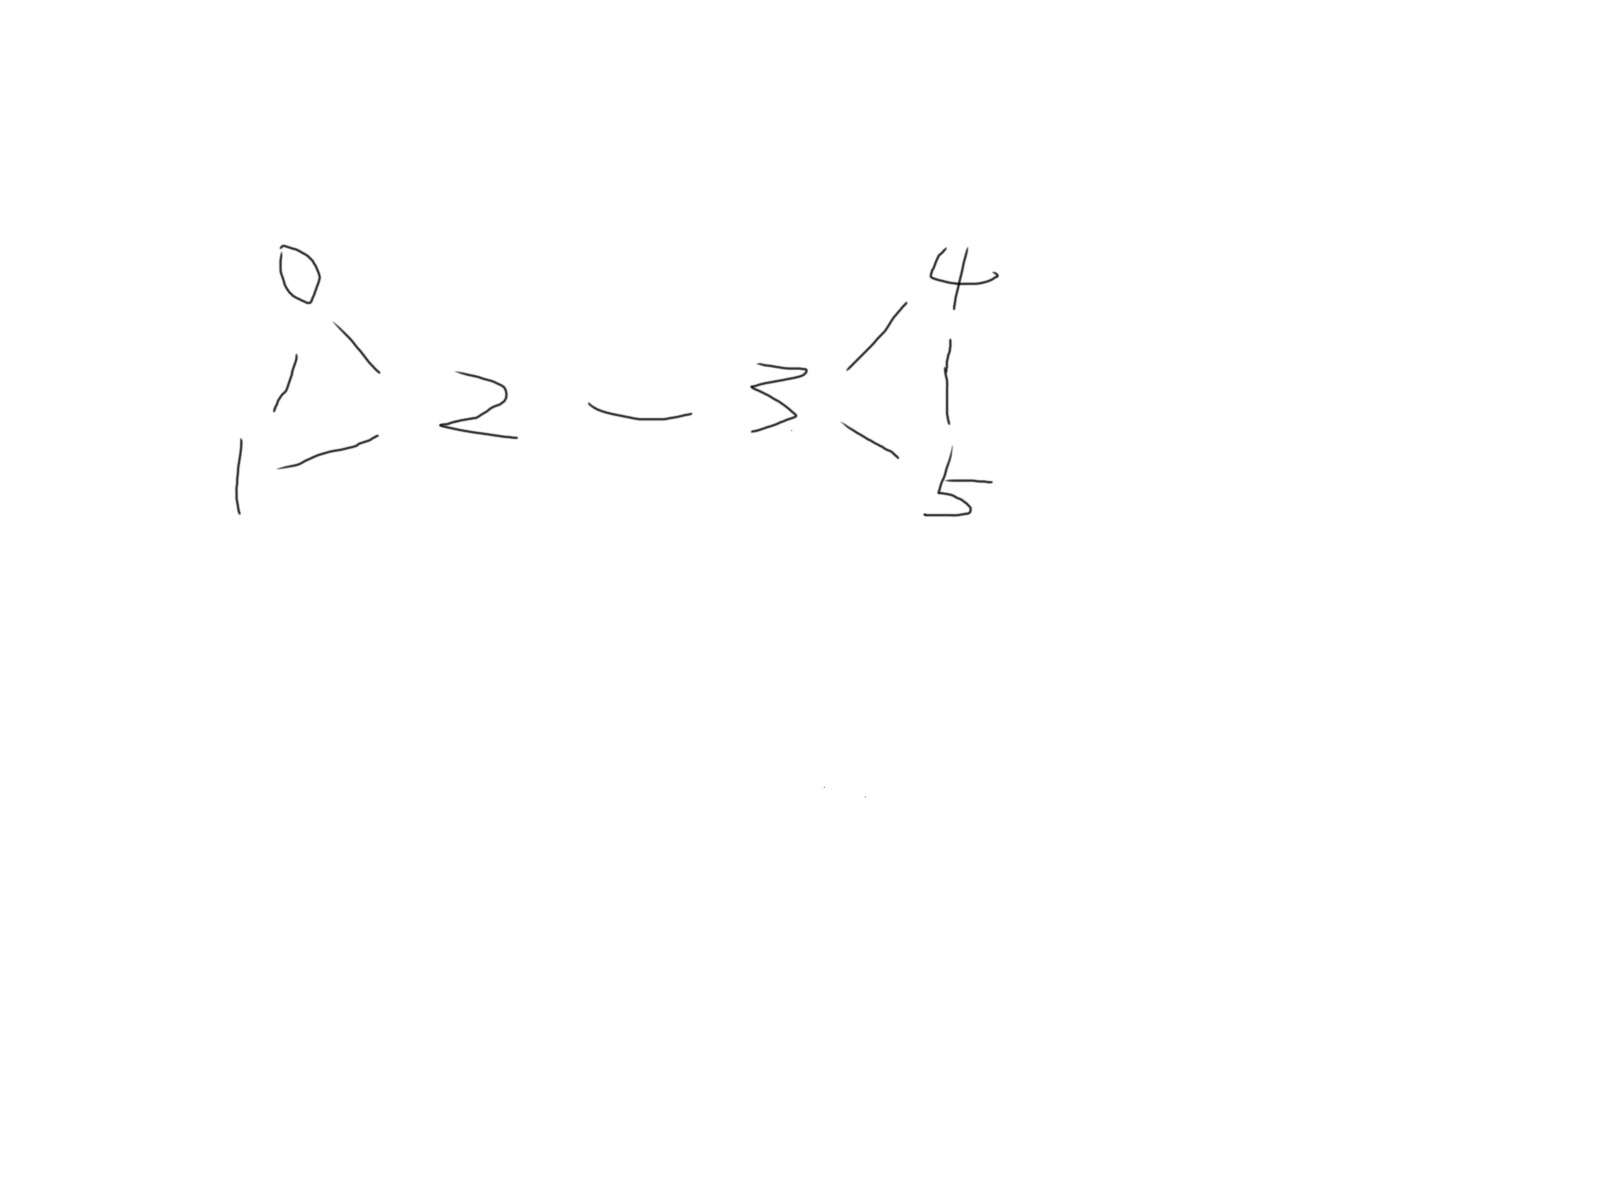
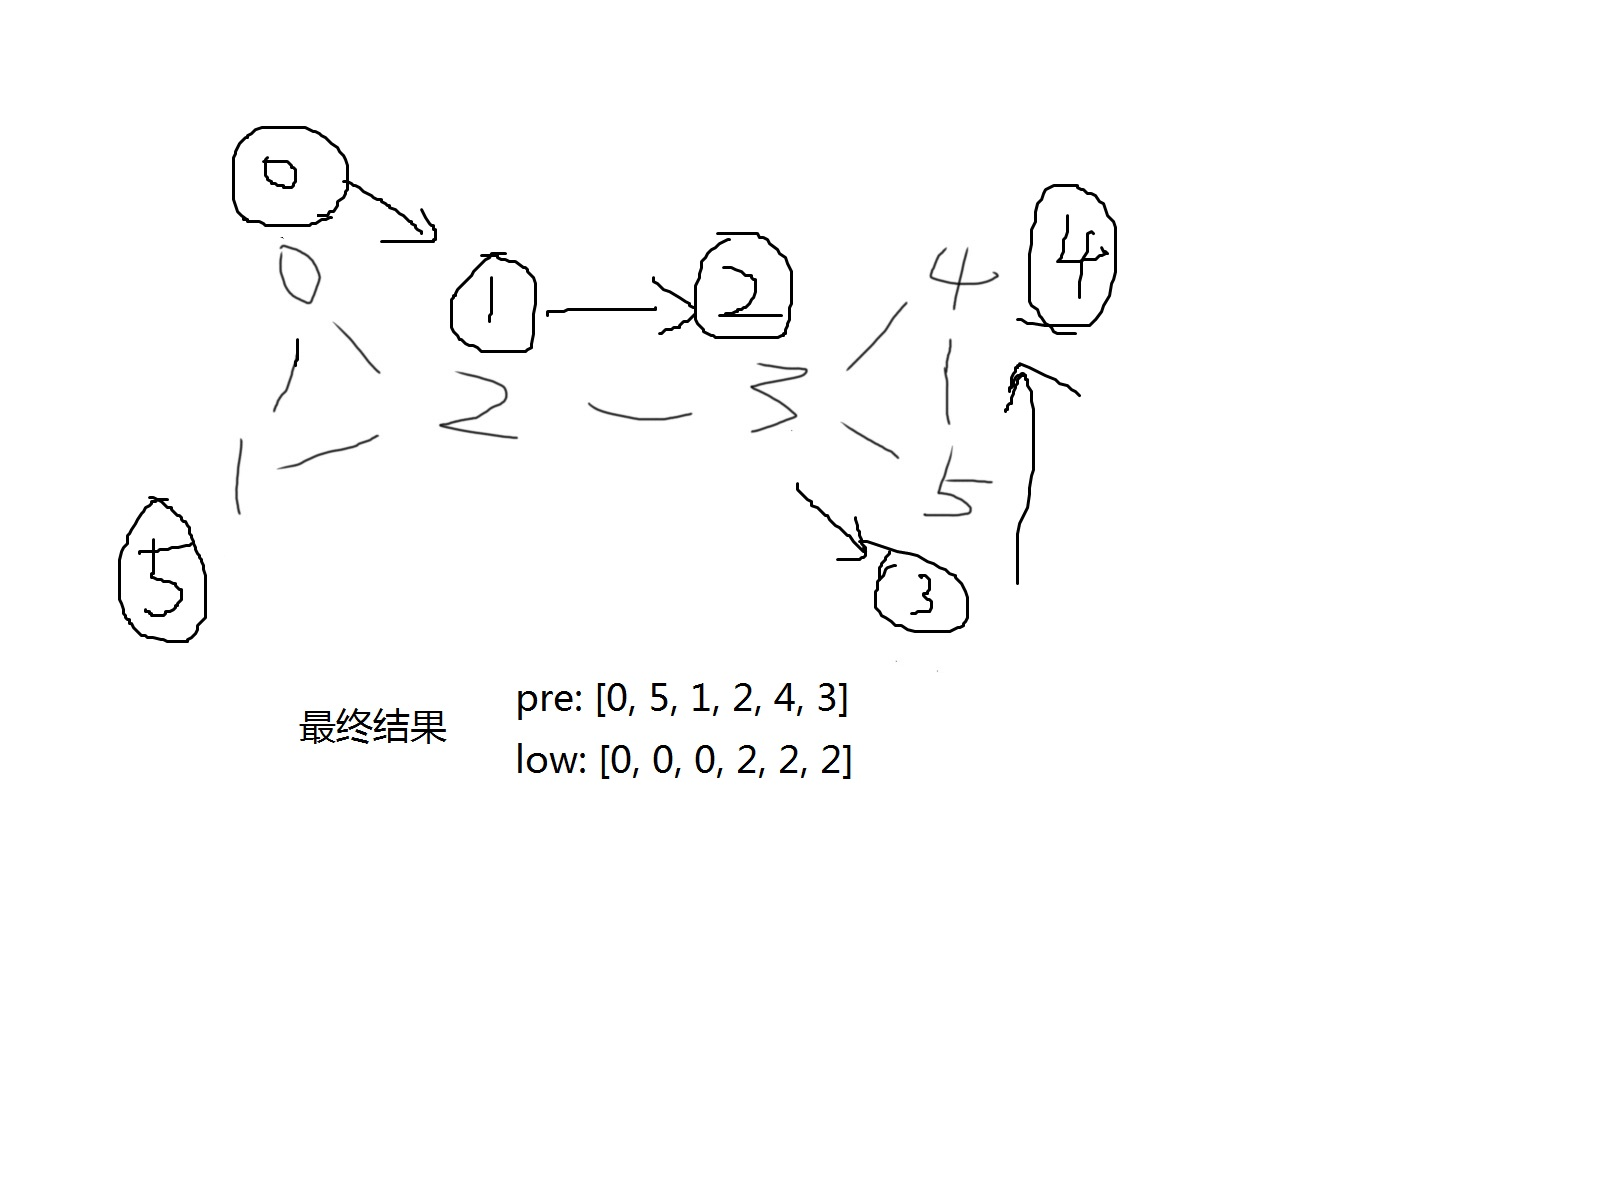
bridge

diff --git a/src/com/wtt/chapter4/practice/Bridge.java b/src/com/wtt/chapter4/practice/Bridge.java
@@ -5,8 +5,9 @@ package com.wtt.chapter4.practice;
  */
 
 import edu.princeton.cs.algs4.Graph;
-import edu.princeton.cs.algs4.GraphGenerator;
 import edu.princeton.cs.algs4.StdOut;
+
+import java.util.Arrays;
 
 /******************************************************************************
  *  Compilation:  javac Bridge.java
@@ -45,7 +46,9 @@ public class Bridge {
                 dfs(G, v, v);
     }
 
-    public int components() { return bridges + 1; }
+    public int components() {
+        return bridges + 1;
+    }
 
     private void dfs(Graph G, int u, int v) {
         pre[v] = cnt++;
@@ -53,9 +56,10 @@ public class Bridge {
         for (int w : G.adj(v)) {
             if (pre[w] == -1) {
                 dfs(G, v, w);
+                //这里是递归栈出栈后继续执行的部分，即继续执行上一层
+                //这里继续将low[v]值取v,w中较小值，从而保证low[v]始终存储的是连通的最小值
                 low[v] = Math.min(low[v], low[w]);
-                // 这里说明1是和2,3,4环分离的
-                // u = v = 1, w = 2
+                // 若不成环，则下方的low[v]不会执行，即这里的w的low和pre值仍相等，即为线性，不成环，是桥
                 if (low[w] == pre[w]) {
                     StdOut.println(v + "-" + w + " is a bridge");
                     bridges++;
@@ -64,9 +68,18 @@ public class Bridge {
 
             // update low number - ignore reverse of edge leading to v
             else if (w != u)
-                // 这里完成环2,3,4的low值统一工作
+                // 这里是取v的相邻顶点中最小的low值，
+                // 若u,v,w成环，则可以确定low[v]的值必定会取pre[w]值
                 low[v] = Math.min(low[v], pre[w]);
         }
+    }
+
+    public String getPre() {
+        return Arrays.toString(pre);
+    }
+
+    public String getLow() {
+        return Arrays.toString(low);
     }
 
     // test client
@@ -76,16 +89,6 @@ public class Bridge {
 //        int V = 10;
 //        int E = 7;
 //        Graph G = GraphGenerator.simple(V, E);
-        //0: 6 9
-        //1: 2
-        //2: 3 4 1
-        //3: 2
-        //4: 2
-        //5: 8 6
-        //6: 0 5
-        //7:
-        //8: 5
-        //9: 0
         Graph G = new Graph(6);
         G.addEdge(0, 1);
         G.addEdge(0, 2);
@@ -98,7 +101,61 @@ public class Bridge {
 
         Bridge bridge = new Bridge(G);
         StdOut.println("Edge connected components = " + bridge.components());
+        System.out.println("pre: " + bridge.getPre());
+        System.out.println("low: " + bridge.getLow());
     }
+/**
+ * 只有u,v的值代表进入一次for(int w: G.adj(v))循环
 
+ u  v  w
+ 0  0
+ 0  0  2  入栈
+ 0  2
+ 0  2  3  入栈
+ 2  3
+ 2  3  5  入栈
+ 3  5
+ 3  5  4  入栈
+ 5  4
+ 5  4  5   到这一步的时候pre[5] == -1条件不成立，u == w是回路
+ 5  4  3   4的第2个相邻顶点，w!=u,判断出5,4,3是在一个环内
+ 因为dfs递归方法都是对v的pre，low进行赋值，若pre[w] ！= -1，
+ 说明该w点之前已经被标记过了
+ low[v] = 4, pre[w] = 2 （vw:43**成环**）
+ 5  4      上面4的相邻顶点已经遍历完成，即G.adj(v)遍历完，dfs返回后接着执行后面的命令
+ 即从这里开始返回执行递归栈里的方法,沿着深度优先搜索路径返回,回到上一步的354
+ 3  5  4	  出栈，比较5,4的low值，取小值
+ low[v] = 3, low[w] = 2  (5,4)
+ 接着判断w = 4的low值和pre值是否相同，若相同则v-w是桥
+ low[w] = 2, pre[w] = 4
+ 3  5      回到3,5对，以上是5的相邻顶点4（v=5,w=4)的处理过程，它已经全部执行完毕，
+ 进入循环的下次迭代，5的另一个相邻顶点3
+ 3  5  3   u == w是回路
+ 3  5      5的相邻边也执行完了，继续执行递归后235的代码
+ 2  3  5   出栈，low[v] = 2, low[w] = 2,pre[w] = 3 （3,5）
+ 2  3
+ 2  3  4   low[v] = 2, pre[w] = 4 （vw:34**成环**）
+ 2  3
+ 2  3  2   u == w是回路
+ 2  3      2,3完成，继续执行递归后023的代码
+ 0  2  3   出栈，low[v] = 1, low[w] = 2,pre[w] = 2 （2,3） 发现3是桥
+ 0  2
+ 0  2  1  入栈，pre[1] == -1成立，继续递归入栈
+ 2  1
+ 2  1  2  u == w
+ 2  1
+ 2  1  0  lov[v] = 5, pre[w] = 0 (1,0成环)
+ 2  1
+ 0  2  1  出栈，继续执行021，low[v] = 1, low[w] = 0,pre[w] = 5
+ 0  2
+ 0  2  0  u == w
+ 0  2
+ 0  0  2  出栈，low[v] = 0, low[w] = 0, pre[w] = 1
+ 0  0
+ 0  0  1  0的相邻顶点1， low[v] = 0, pre[w] = 5(0,1)
+ 0  0
+ 回到构造器发现所有顶点pre值都不为-1，bridge对象构造完毕
+
+ */
 
 }
